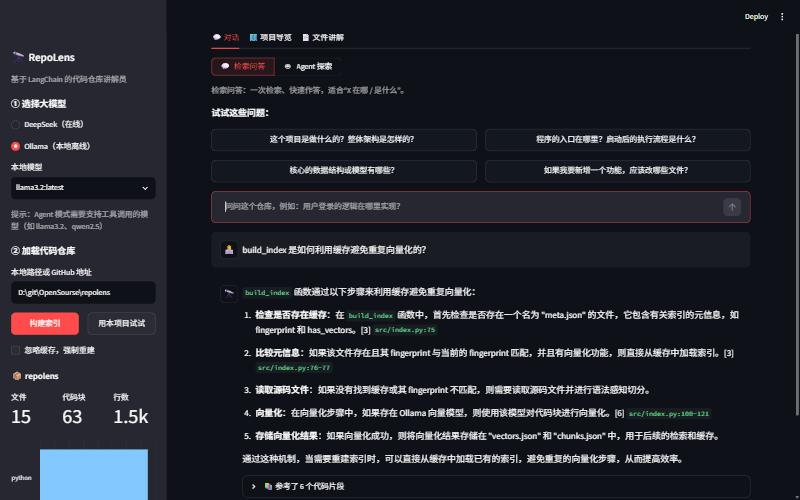
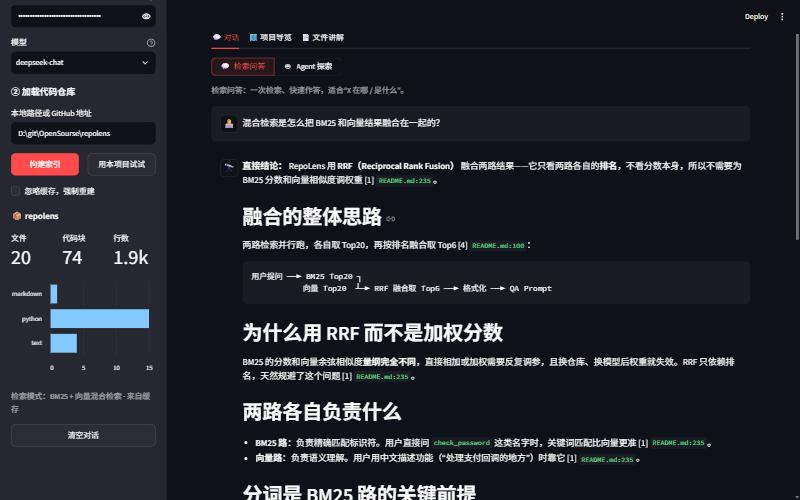
docs: 补充 DeepSeek 实测截图与 Agent 示例；限制回答标题层级

diff --git a/repolens/prompts.py b/repolens/prompts.py
@@ -24,7 +24,8 @@ QA_PROMPT = ChatPromptTemplate.from_messages(
          "1. 只依据上述片段和对话历史作答；片段不足以回答时，明确说明，并建议可能该去看哪些文件。\n"
          "2. 关键结论后用 [编号] 标注出处，并给出 `路径:行号`，例如 [2] `src/auth.py:42`。\n"
          "3. 先给一两句话的直接结论，再展开细节；必要时贴出关键代码（不要整段照抄）。\n"
-         "4. 讲解调用链时按执行顺序用列表或箭头描述。"),
+         "4. 讲解调用链时按执行顺序用列表或箭头描述。\n"
+         "5. 小标题最多使用三级标题（###），不要使用 # 或 ##。"),
         MessagesPlaceholder("history"),
         ("human", "{question}"),
     ]
@@ -62,5 +63,5 @@ AGENT_SYSTEM = (
     "- read_file：读取文件指定行范围\n\n"
     "工作方式：先检索定位，再读取关键文件核实，必要时顺着 import/调用关系继续追踪；"
     "不要编造没看到的代码。信息足够后停止调用工具，用简体中文给出结论，"
-    "并以 `路径:行号` 的形式列出依据。"
+    "并以 `路径:行号` 的形式列出依据。小标题最多使用三级标题（###）。"
 )
